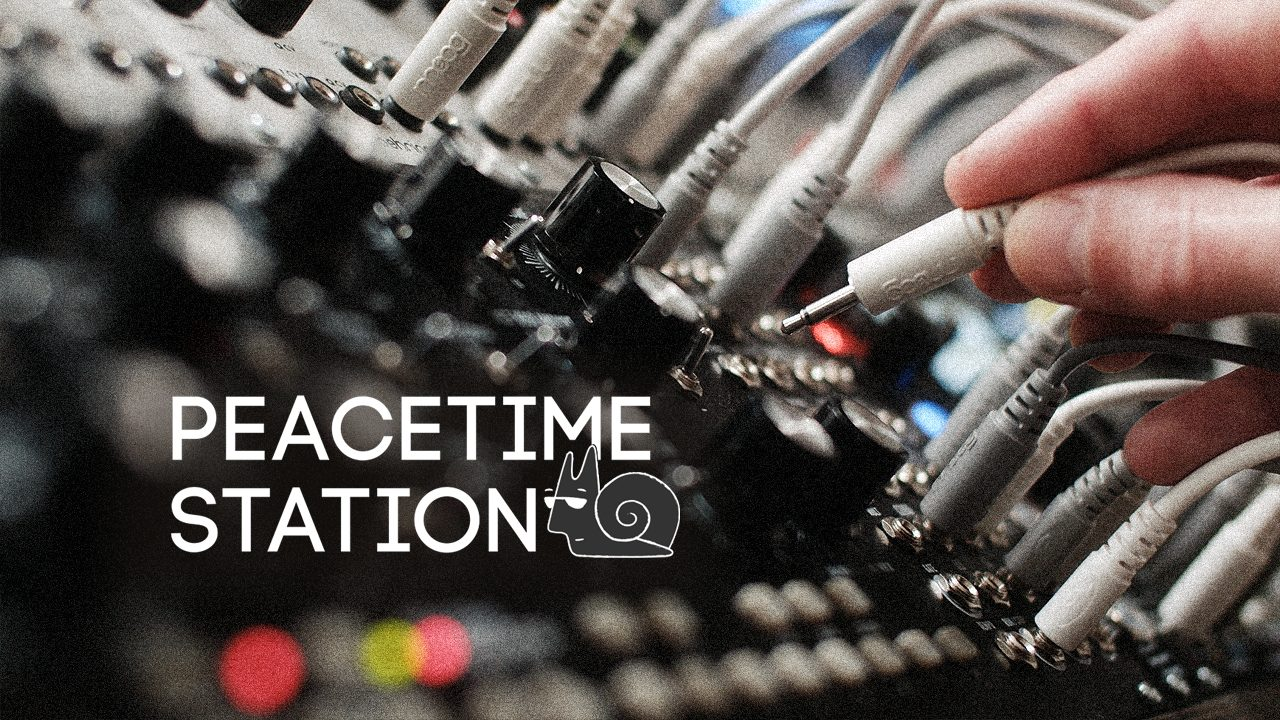
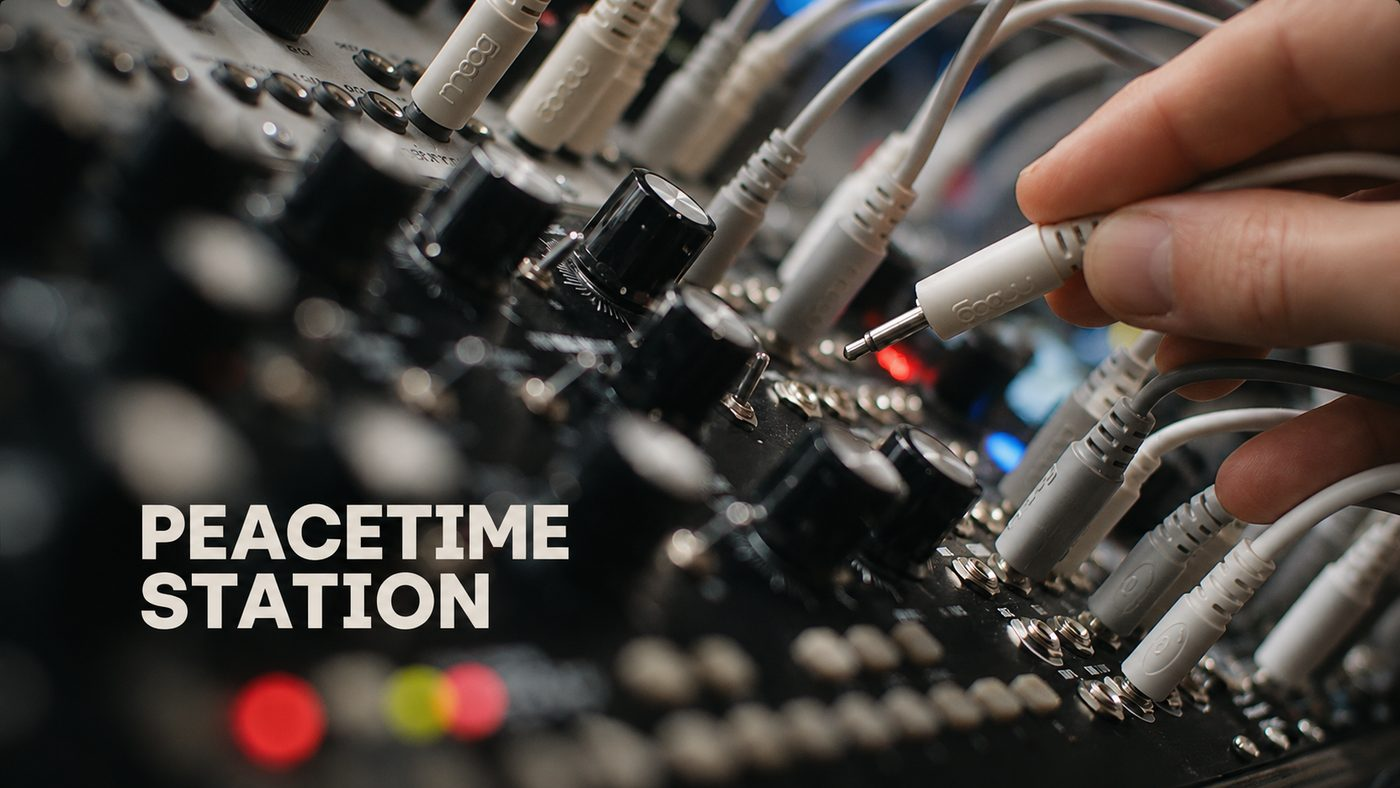
Add files via upload

diff --git a/works/peacetime-station/index.html b/works/peacetime-station/index.html
@@ -18,7 +18,7 @@
 <meta name="twitter:card" content="summary_large_image">
 </head>
 
-<body>
+<body class="station-page">
 
 <div class="container">
 
@@ -40,9 +40,7 @@
 
     <p>
       PeaceTime Station is a series of long live transmissions.
-      There is no schedule. 
-      <br>
-      I go on air when I feel it is time
+      There is no schedule. I go on air when I feel it is time
       and improvise from the first minute.
       Nothing is recorded in advance. Everything goes straight out.
     </p>

diff --git a/styles/style.css b/styles/style.css
@@ -463,6 +463,7 @@ display:block;
   margin-top: 0;
   margin-bottom: 70px;
 }
-.station-live .play-button {
-  top: 30%;
+/* Тёплый плёночный тон заставок плееров (вариант B) */
+.station-page .video-placeholder img {
+  filter: saturate(.62) sepia(.24) brightness(.98);
 }
